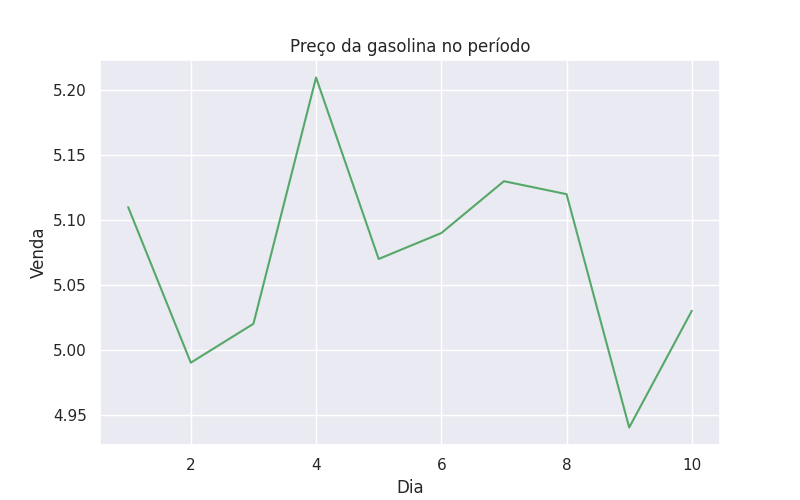
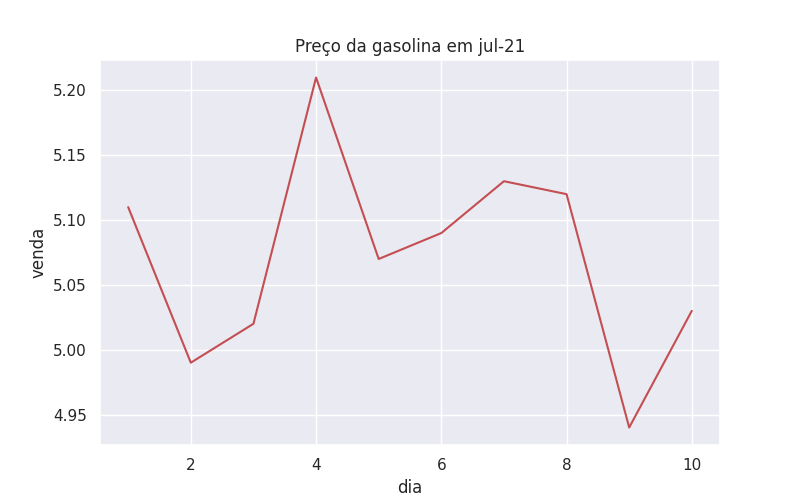
arquivos gasolina.csv, gasolina.png, gasolina.py alterados em develop

diff --git a/gasolina.py b/gasolina.py
@@ -32,7 +32,7 @@ print(df.info())
 # visuzalização
 plt.figure(figsize=(8,5))
 sns.set_theme(style="darkgrid")
-grap = sns.lineplot(data=df, x='Dia', y='Venda', color='g')
-plt.title('Preço da gasolina no período')
+grap = sns.lineplot(data=df, x='dia', y='venda', color='r')
+plt.title('Preço da gasolina em jul-21')
 plt.show()
 
